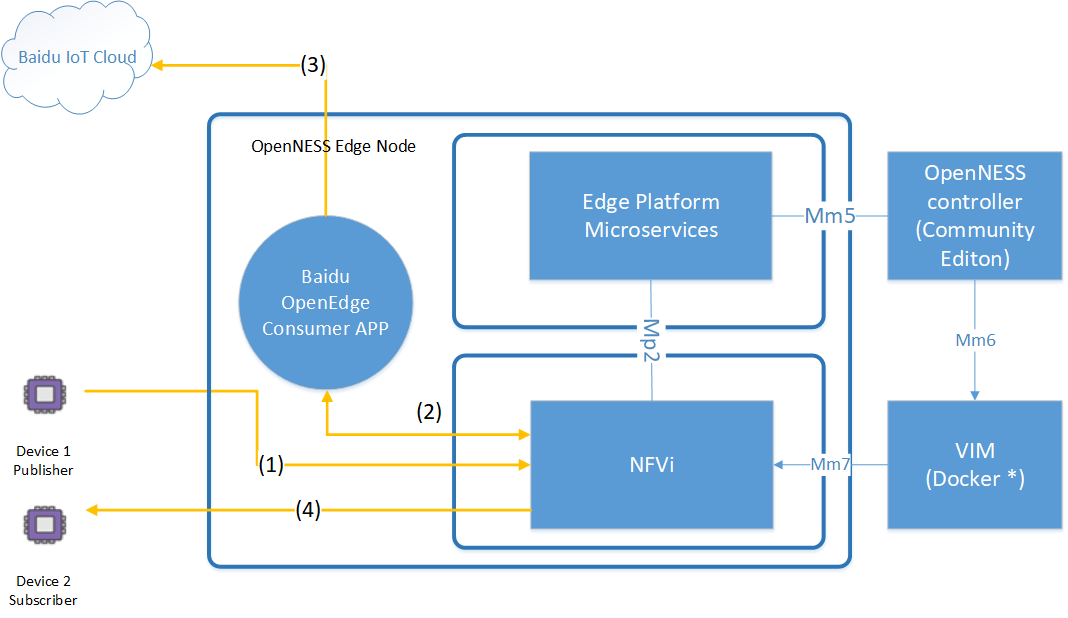
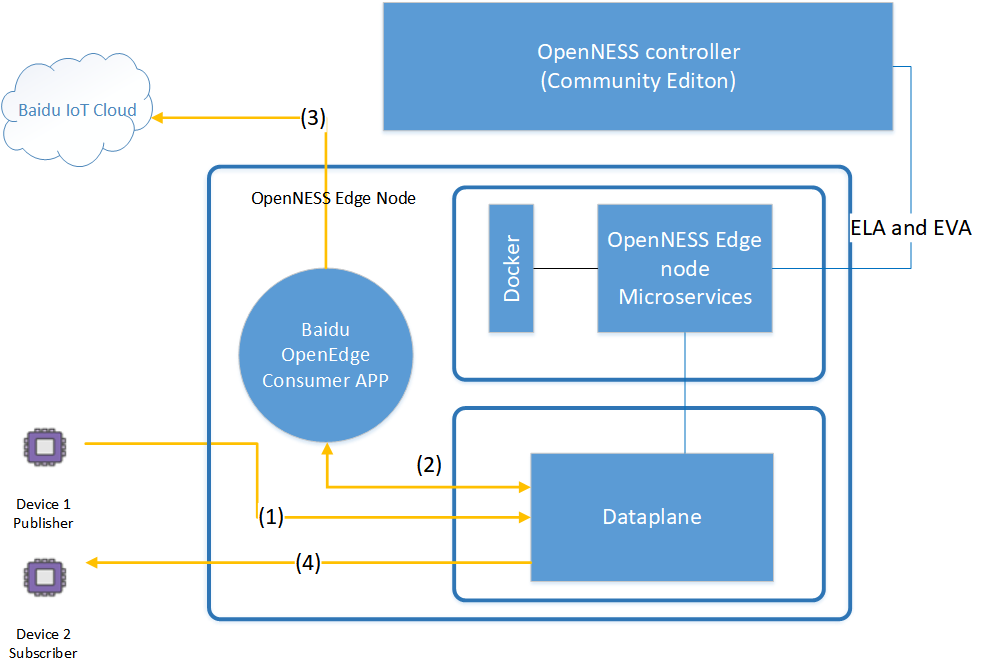
update

diff --git a/doc/openness_baiducloud.md b/doc/openness_baiducloud.md
@@ -46,7 +46,7 @@ Figure 1. Integration Architecture for OpenEdge on OpenNESS.
   OpenNESS NTS will send/receive data traffic to/from the apps according to traffic routing configuration.
 
 - OpenEdge can play as two types of Apps
-  - Producer: provides a service to other apps on the Edge Platform (need control path between OpenEdge and OpenNESS for Mp1 interaction).
+  - Producer: provides a service to other apps on the Edge Platform (need control path between OpenEdge and OpenNESS for EAA interaction).
   - Consumer: consumes end user traffic and optionally can get services from producer apps on the same edge platform. (If need to get services from other edge apps, it need to use control path to authenticate and register with OpenNESS).
   - NOTE: in the application note, OpenEdge is treated as pure consumer application and need not get service from other edge apps. So in the integration architecture diagram, there is not control path.
 
@@ -303,8 +303,8 @@ It consists of the following elements and related IOT data processing:
 - OpenNESS Controller: OpenNESS controller performs management and policy configuration. 
   For this example, controller will configure traffic rule for routing MQTT IOT traffic to Baidu OpenEdge via OpenNESS.
 
-- Baidu OpenEdge: It plays a pure consumer app without invoking services from other producer application, so need not Mp1 interface
-  interaction with OpenNESS platform. It will handle data traffic from/to MQTT devices via OpenNESS Platform.
+- Baidu OpenEdge: In the example provided as part of OpenNESS Baidu OpenEdge app is deployed as a pure consumer app without consuming any services from other producer application on the edge node. Hence the Baidu OpenEdge app need not call EAA APIs. The app will handle data traffic from/to MQTT devices via OpenNESS dataplane.
+> Note: Implementing EAA APIs in the Baidu OpenEdge application will further enhance the capability of the Baidu OpenEdge based application as they can consume services like location, Radio network information etc. from the Edge Node. 
 
 - IOT MQTT Data plane processing:
   (1) Device #1 publishes its status data by using MQTT protocol.
